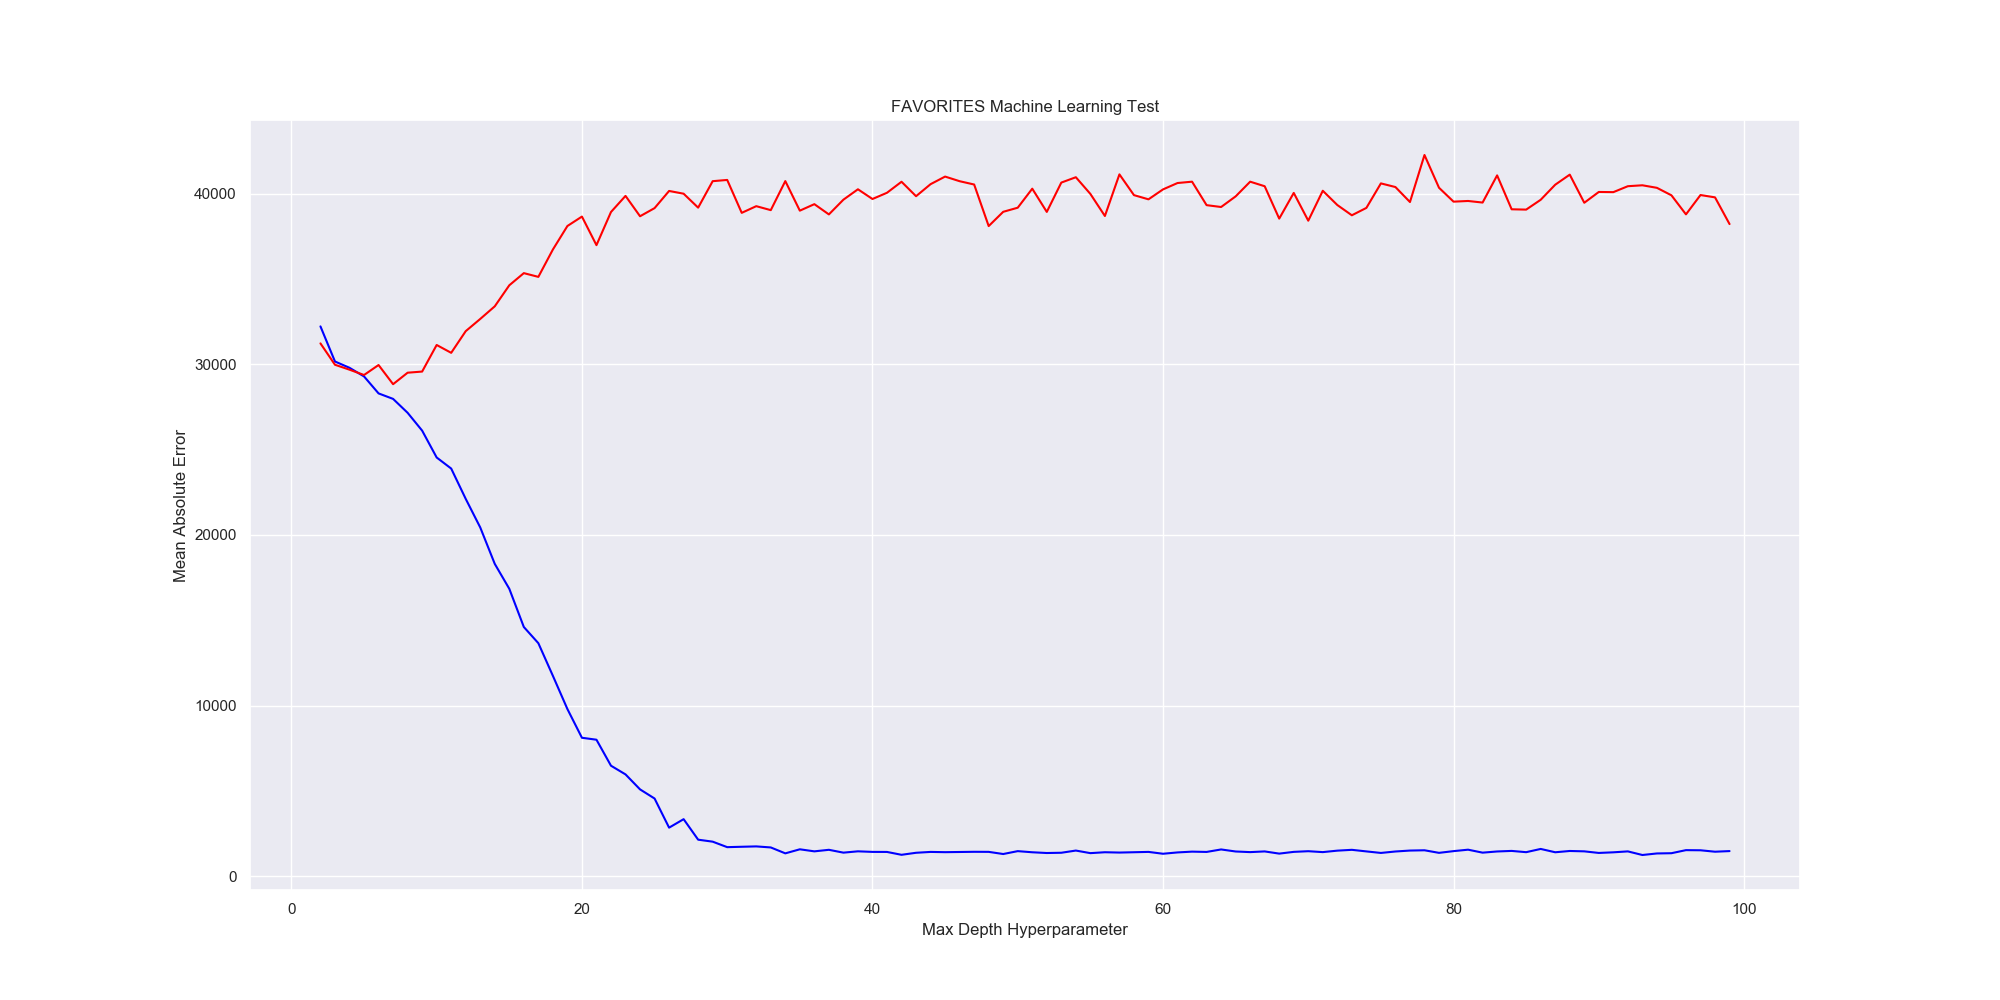
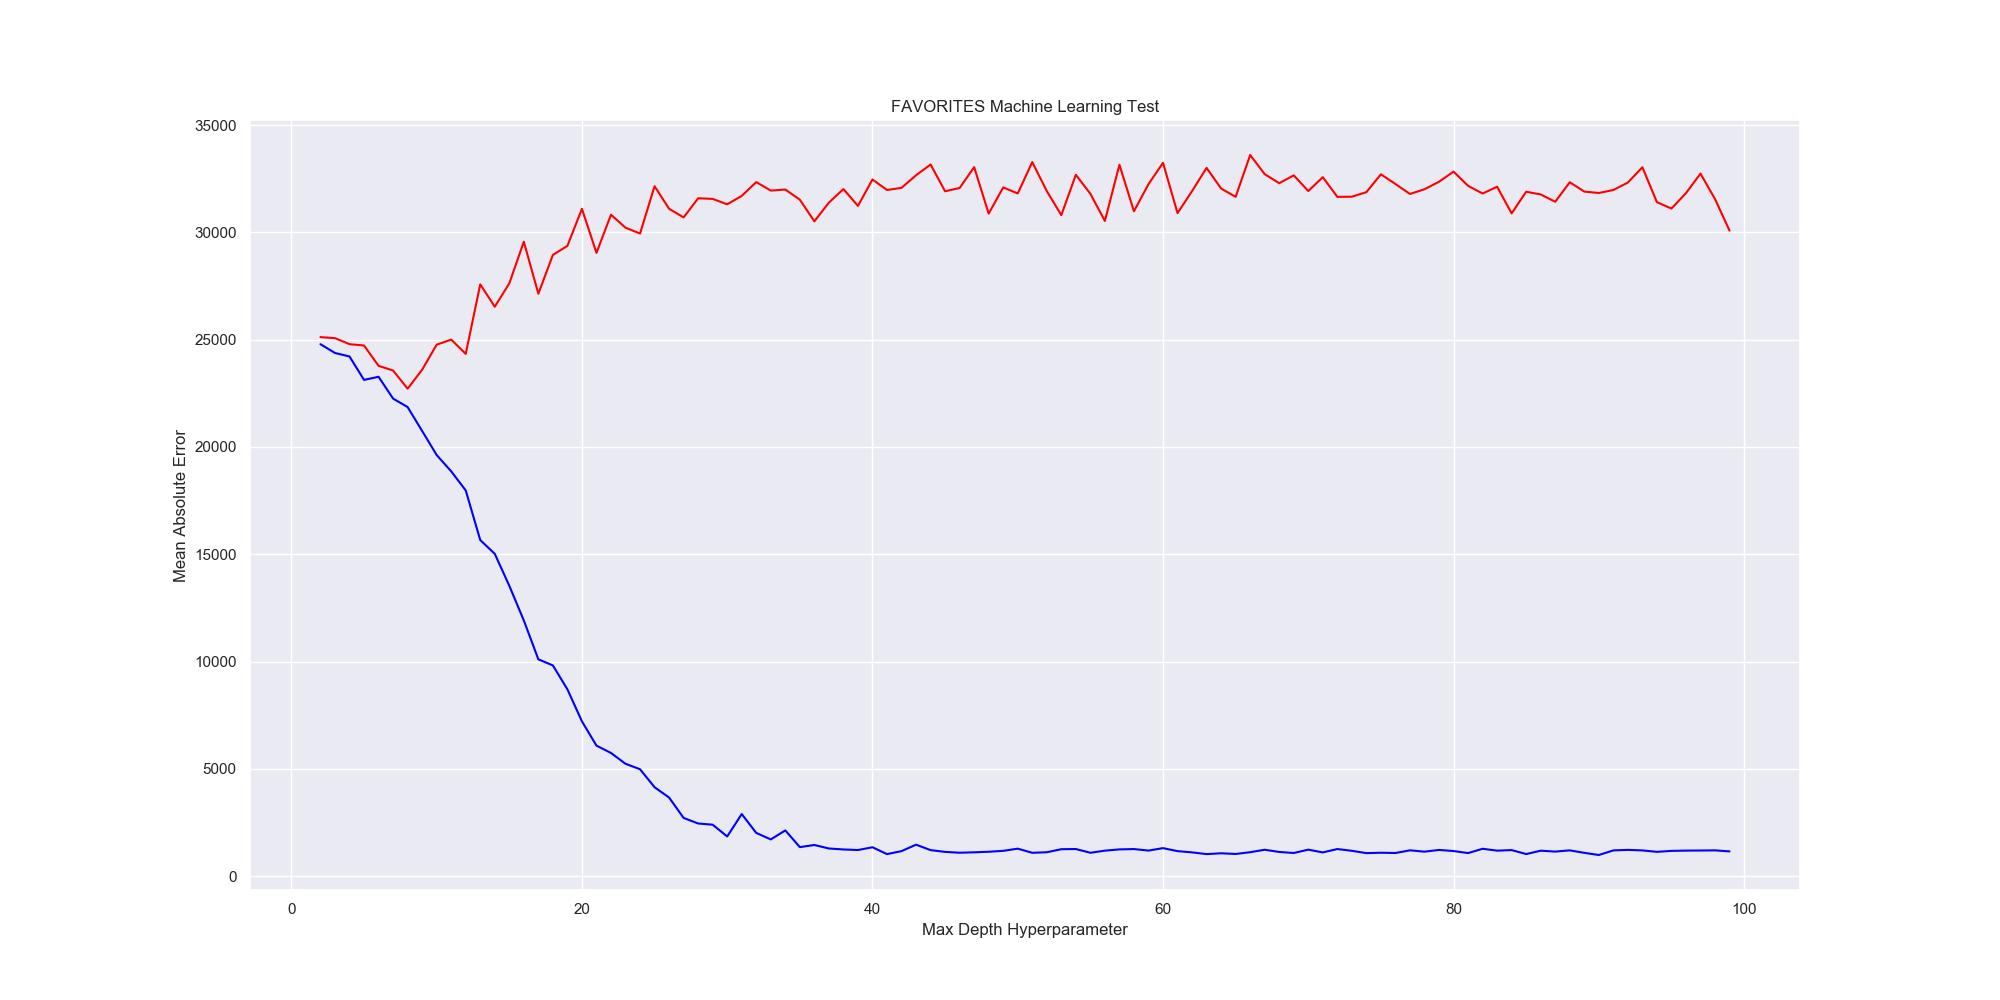
Chet Copy Push

diff --git a/language.py b/language.py
@@ -74,29 +74,31 @@ def create_grammarplot(tweets):
     ax.set(xlabel='Part of Speech Percentage', ylabel='Kernal Density',
            title='Distribution of Grammar Usage in Tweets')
 
-    fig.savefig('grammar.png')
+    fig.savefig('CSE163Project/images/grammar.png')
 
     fig, ax = plt.subplots(1, figsize=(20, 10))
     sns.kdeplot(data=tweets['character count'], ax=ax, shade=True)
     ax.set(xlabel='Tweet Character Count', ylabel='Kernal Density',
            title='Distribution of Character Counts in Tweets')
 
-    fig.savefig('charactercount.png')
+    fig.savefig('CSE163Project/images/charactercount.png')
 
     fig, ax = plt.subplots(1, figsize=(20, 10))
     sns.kdeplot(data=tweets['word count'], ax=ax, shade=True)
     ax.set(xlabel='Tweet Word Count', ylabel='Kernal Density',
            title='Distribution of Word Counts in Tweets')
 
-    fig.savefig('wordcount.png')
+    fig.savefig('CSE163Project/images/wordcount.png')
 
 
 def machine_learn_tweets(tweets):
     tweets = tweets.copy()
+    tweets['year'] = tweets.index
+    tweets['year'] = tweets['year'].map(lambda x: x.year)
     tweets = tweets[['favorites', 'retweets', 'word count',
                      'NOUN', 'PROPN', 'VERB', 'ADJ', 'ADV',
                      'character count', '! count',
-                     'hashtag count', '@ count']]
+                     'hashtag count', '@ count', 'year']]
     tweets.dropna()
     features = tweets.loc[:, (tweets.columns != 'retweets')
                           & (tweets.columns != 'favorites')]

diff --git a/test_machine.py b/test_machine.py
@@ -20,6 +20,8 @@ def process_big_tweets(tweets):
 
 
 def test_machine(tweets, kind):
+    tweets = tweets.copy()
+    tweets['date'] = tweets['date'].apply(lambda x: int(x[0:4]))
     train = []
     test = []
     for i in range(2, 100):
@@ -43,15 +45,14 @@ def test_machine(tweets, kind):
     ax.set(xlabel='Max Depth Hyperparameter', ylabel='Mean Absolute Error',
            title=kind.upper() + ' Machine Learning Test')
 
-    fig.savefig('test_machine_' + kind + '.png')
+    fig.savefig('CSE163Project/images/test_machine_' + kind + '.png')
 
 
 def machine_learn_tweets(tweets, depth, kind):
-    tweets = tweets.copy()
     tweets = tweets[['favorites', 'retweets', 'word count',
                      'NOUN', 'PROPN', 'VERB', 'ADJ', 'ADV',
                      'character count', '! count',
-                     'hashtag count', '@ count']]
+                     'hashtag count', '@ count', 'date']]
     tweets.dropna()
     features = tweets.loc[:, (tweets.columns != 'retweets')
                           & (tweets.columns != 'favorites')]
